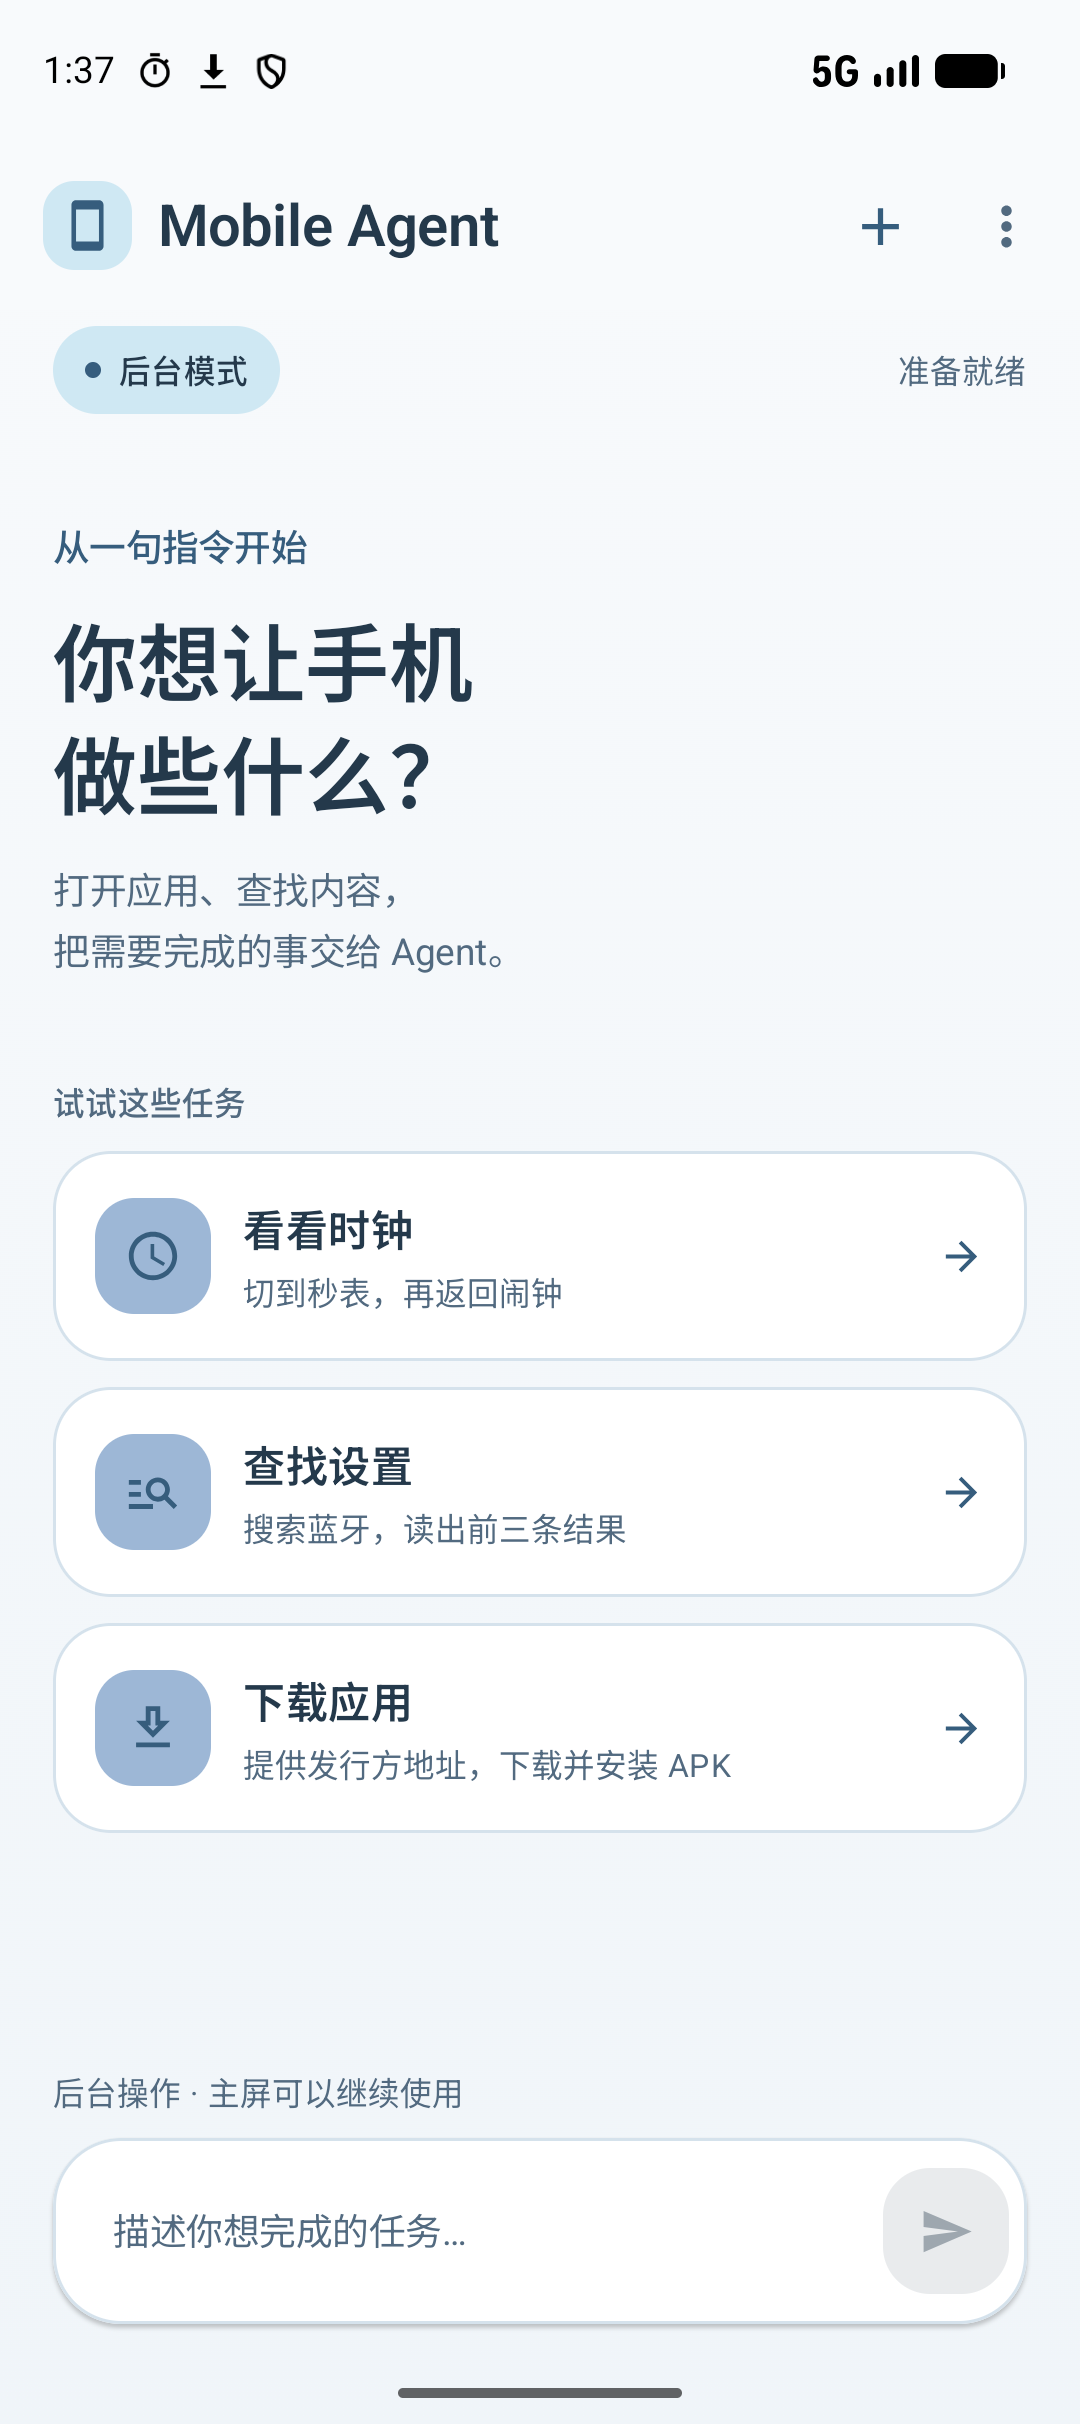
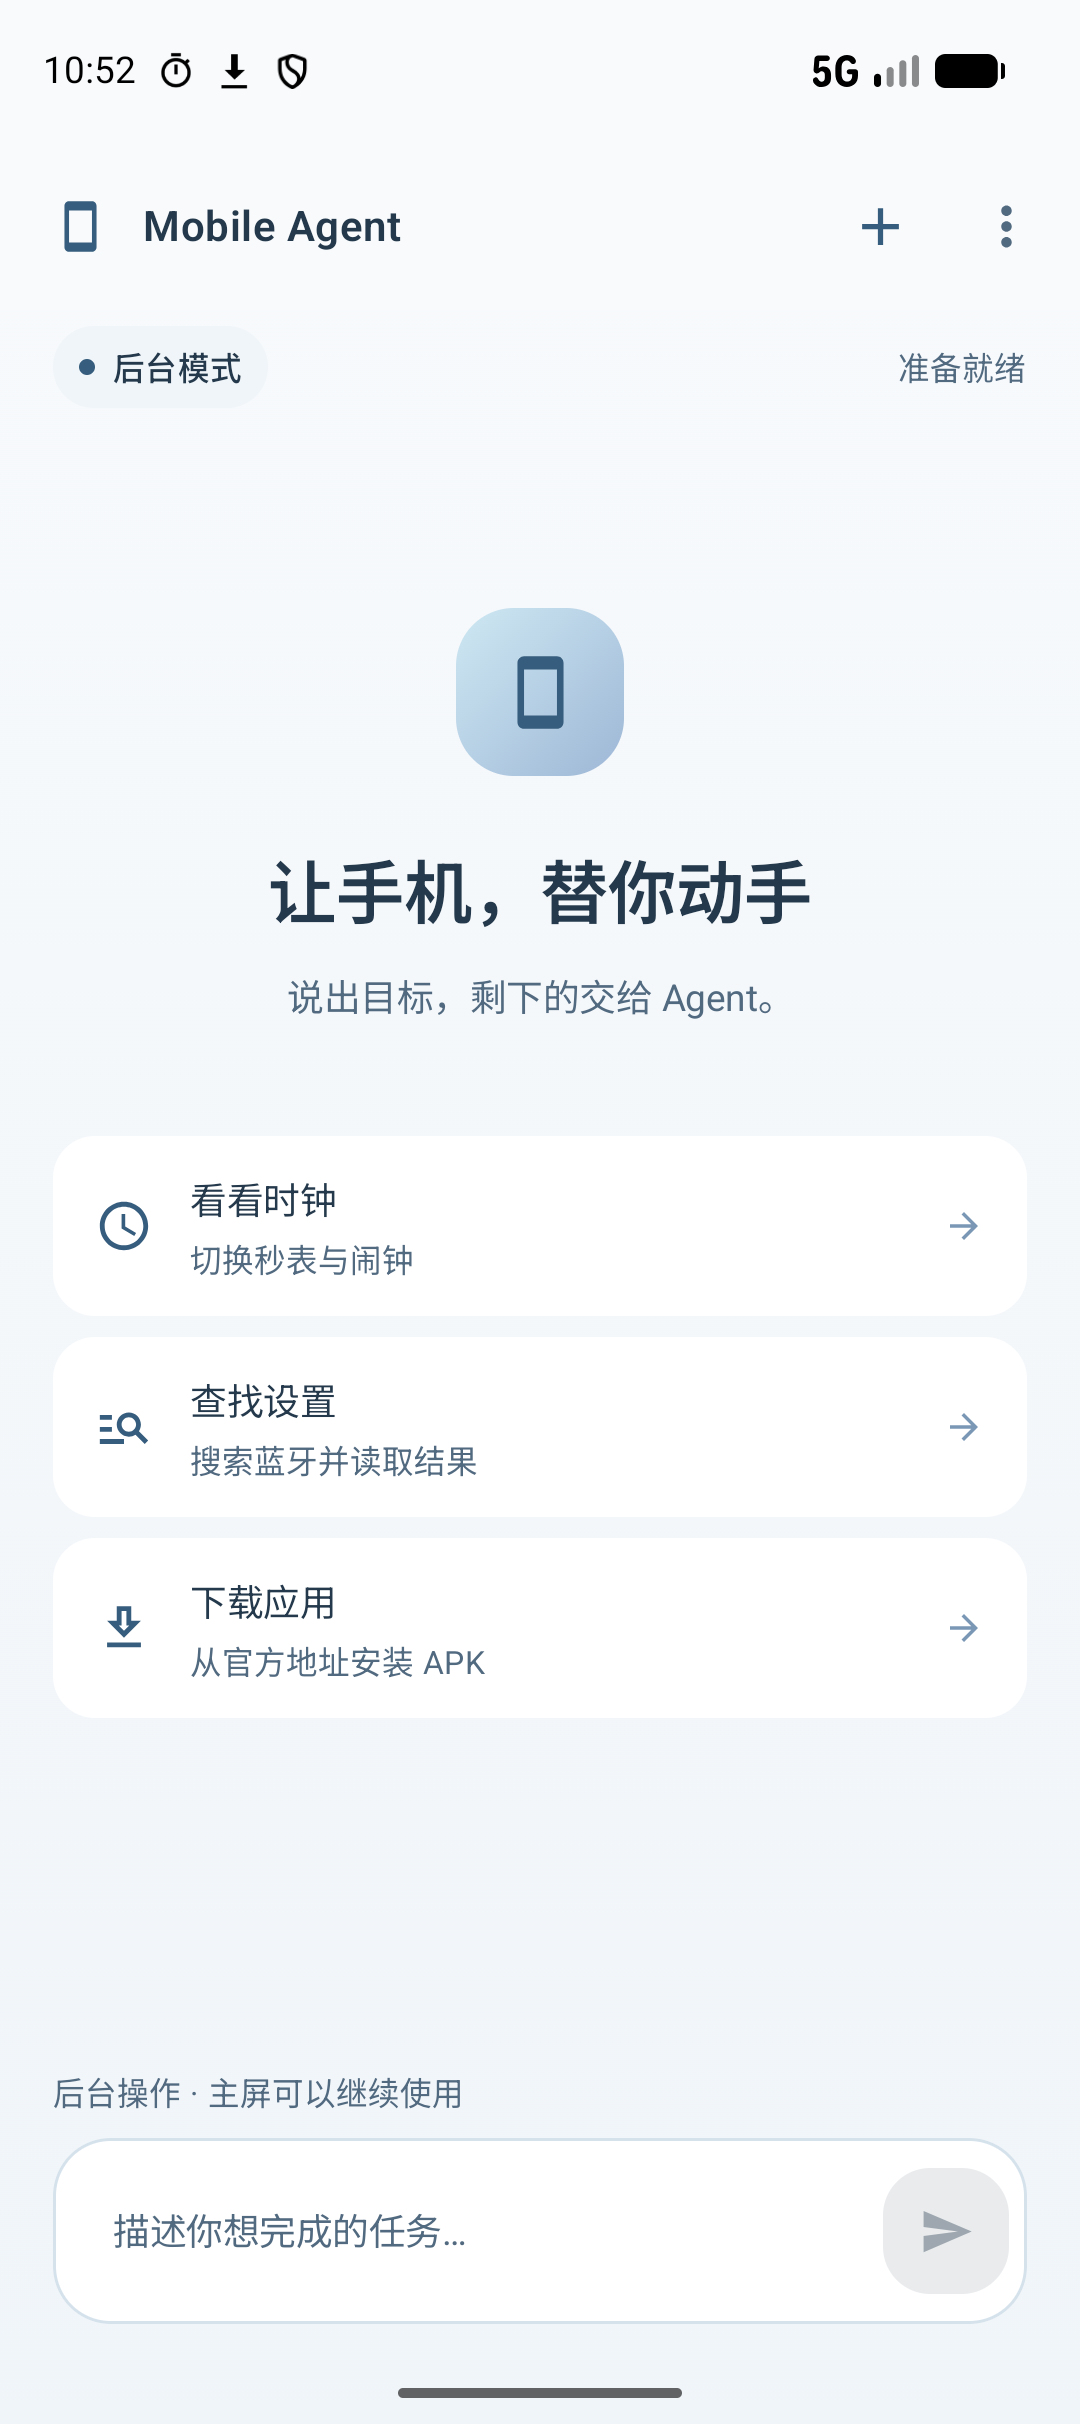
feat(android): refine home and conversation layout

diff --git a/apps/android/app/src/main/java/ai/mobileagent/MainActivity.kt b/apps/android/app/src/main/java/ai/mobileagent/MainActivity.kt
@@ -19,6 +19,8 @@ import androidx.compose.foundation.background
 import androidx.compose.foundation.BorderStroke
 import androidx.compose.foundation.clickable
 import androidx.compose.foundation.layout.size
+import androidx.compose.ui.text.style.TextAlign
+import androidx.compose.ui.unit.sp
 import androidx.compose.foundation.layout.heightIn
 import androidx.compose.material.icons.outlined.Smartphone
 import androidx.compose.material.icons.outlined.AccessTime
@@ -227,10 +229,10 @@ private fun MobileAgentScreen(
     Scaffold(topBar = { TopAppBar(
         title = {
             Row(verticalAlignment = Alignment.CenterVertically, horizontalArrangement = Arrangement.spacedBy(10.dp)) {
-                Box(Modifier.size(34.dp).background(MaterialTheme.colorScheme.primaryContainer, RoundedCornerShape(12.dp)), contentAlignment = Alignment.Center) {
+                Box(Modifier.size(28.dp), contentAlignment = Alignment.Center) {
                     Icon(Icons.Outlined.Smartphone, contentDescription = null, modifier = Modifier.size(21.dp), tint = MaterialTheme.colorScheme.primary)
                 }
-                Text("Mobile Agent", style = MaterialTheme.typography.titleLarge)
+                Text("Mobile Agent", style = MaterialTheme.typography.titleMedium)
             }
         },
         colors = TopAppBarDefaults.topAppBarColors(containerColor = MaterialTheme.colorScheme.background),
@@ -258,9 +260,9 @@ private fun MobileAgentScreen(
     ) }) { padding ->
         Column(Modifier.fillMaxSize().background(Brush.verticalGradient(listOf(MaterialTheme.colorScheme.background, MaterialTheme.colorScheme.surfaceContainerLow))).padding(padding).padding(horizontal = 20.dp).imePadding()) {
             Row(Modifier.fillMaxWidth().padding(top = 6.dp, bottom = 14.dp), verticalAlignment = Alignment.CenterVertically, horizontalArrangement = Arrangement.SpaceBetween) {
-                Surface(shape = RoundedCornerShape(50), color = MaterialTheme.colorScheme.primaryContainer,
+                Surface(shape = RoundedCornerShape(50), color = MaterialTheme.colorScheme.surfaceContainerLow,
                     modifier = Modifier.clickable(enabled = !state.running && !editingConfiguration, onClick = onToggleHidden)) {
-                    Row(Modifier.padding(horizontal = 12.dp, vertical = 8.dp), verticalAlignment = Alignment.CenterVertically, horizontalArrangement = Arrangement.spacedBy(7.dp)) {
+                    Row(Modifier.padding(horizontal = 10.dp, vertical = 7.dp), verticalAlignment = Alignment.CenterVertically, horizontalArrangement = Arrangement.spacedBy(7.dp)) {
                         Box(Modifier.size(6.dp).background(MaterialTheme.colorScheme.primary, RoundedCornerShape(50)))
                         Text(if (hiddenEnabled) "后台模式" else "前台模式", style = MaterialTheme.typography.labelMedium, color = MaterialTheme.colorScheme.onPrimaryContainer)
                     }
@@ -374,8 +376,8 @@ private fun MobileAgentScreen(
                     val value = prompt.trim()
                     if (value.isNotEmpty() && canRun && onRun(value)) prompt = ""
                 }
-                Surface(Modifier.fillMaxWidth().padding(bottom = 14.dp), shape = RoundedCornerShape(26.dp),
-                    color = MaterialTheme.colorScheme.surfaceContainerLowest, border = BorderStroke(1.dp, MaterialTheme.colorScheme.outlineVariant), shadowElevation = 1.dp) {
+                Surface(Modifier.fillMaxWidth().padding(bottom = 14.dp), shape = RoundedCornerShape(22.dp),
+                    color = MaterialTheme.colorScheme.surfaceContainerLowest, border = BorderStroke(1.dp, MaterialTheme.colorScheme.outlineVariant), shadowElevation = 0.dp) {
                     Row(Modifier.padding(7.dp), verticalAlignment = Alignment.CenterVertically) {
                         TextField(prompt, { prompt = it }, Modifier.weight(1f),
                             placeholder = { Text("描述你想完成的任务…", style = MaterialTheme.typography.bodyMedium) },
@@ -410,12 +412,12 @@ private fun Chat(state: AgentState, modifier: Modifier = Modifier) {
                 val user = message.role == MessageRole.USER
                 Row(Modifier.fillMaxWidth(), horizontalArrangement = if (user) Arrangement.End else Arrangement.Start) {
                     Surface(Modifier.fillMaxWidth(if (user) .86f else .97f),
-                        shape = if (user) RoundedCornerShape(22.dp, 22.dp, 6.dp, 22.dp) else RoundedCornerShape(6.dp, 22.dp, 22.dp, 22.dp),
+                        shape = if (user) RoundedCornerShape(22.dp, 22.dp, 6.dp, 22.dp) else RoundedCornerShape(16.dp),
                         color = when (message.role) {
                             MessageRole.USER -> MaterialTheme.colorScheme.primaryContainer
                             MessageRole.ERROR -> MaterialTheme.colorScheme.errorContainer
                             else -> MaterialTheme.colorScheme.surfaceContainerLowest
-                        }, border = if (user) null else BorderStroke(1.dp, MaterialTheme.colorScheme.outlineVariant)) {
+                        }, border = null) {
                         Column(Modifier.padding(16.dp), verticalArrangement = Arrangement.spacedBy(6.dp)) {
                             if (!user) Text(if (message.role == MessageRole.ERROR) "需要处理" else "Mobile Agent", style = MaterialTheme.typography.labelSmall, color = MaterialTheme.colorScheme.onSurfaceVariant)
                             Text(message.text, style = MaterialTheme.typography.bodyLarge,
@@ -439,32 +441,34 @@ private fun ApprovalRow(label: String, value: String) {
 
 @Composable
 private fun EmptyTask(modifier: Modifier, onExample: (String) -> Unit) {
-    Column(modifier.fillMaxWidth().verticalScroll(rememberScrollState()).padding(top = 26.dp), verticalArrangement = Arrangement.spacedBy(10.dp)) {
-        Text("从一句指令开始", style = MaterialTheme.typography.labelLarge, color = MaterialTheme.colorScheme.primary)
-        Text("你想让手机\n做些什么？", style = MaterialTheme.typography.headlineLarge)
-        Text("打开应用、查找内容，\n把需要完成的事交给 Agent。", style = MaterialTheme.typography.bodyMedium, color = MaterialTheme.colorScheme.onSurfaceVariant)
-        Spacer(Modifier.height(18.dp))
-        Text("试试这些任务", style = MaterialTheme.typography.labelMedium, color = MaterialTheme.colorScheme.onSurfaceVariant)
-        TaskExample(Icons.Outlined.AccessTime, "看看时钟", "切到秒表，再返回闹钟", onClick = { onExample("打开时钟，进入秒表页，再返回闹钟页。") })
-        TaskExample(Icons.AutoMirrored.Outlined.ManageSearch, "查找设置", "搜索蓝牙，读出前三条结果", onClick = { onExample("打开系统设置，搜索 bluetooth，读取前三条可见结果，再返回设置首页。") })
-        TaskExample(Icons.Outlined.Download, "下载应用", "提供发行方地址，下载并安装 APK", onClick = { onExample("请帮我下载并安装应用。先向我确认发行方 APK 地址和预期包名。") })
-        Spacer(Modifier.height(14.dp))
+    Column(modifier.fillMaxWidth().verticalScroll(rememberScrollState()).padding(top = 62.dp), horizontalAlignment = Alignment.CenterHorizontally) {
+        Box(Modifier.size(64.dp).background(Brush.linearGradient(listOf(MaterialTheme.colorScheme.primaryContainer, MaterialTheme.colorScheme.secondaryContainer)), RoundedCornerShape(22.dp)), contentAlignment = Alignment.Center) {
+            Icon(Icons.Outlined.Smartphone, contentDescription = null, modifier = Modifier.size(30.dp), tint = MaterialTheme.colorScheme.primary)
+        }
+        Spacer(Modifier.height(24.dp))
+        Text("让手机，替你动手", style = MaterialTheme.typography.headlineLarge.copy(fontSize = 26.sp, lineHeight = 35.sp), textAlign = TextAlign.Center)
+        Spacer(Modifier.height(10.dp))
+        Text("说出目标，剩下的交给 Agent。", style = MaterialTheme.typography.bodyMedium, color = MaterialTheme.colorScheme.onSurfaceVariant, textAlign = TextAlign.Center)
+        Spacer(Modifier.height(42.dp))
+        Column(Modifier.fillMaxWidth(), verticalArrangement = Arrangement.spacedBy(8.dp)) {
+            TaskExample(Icons.Outlined.AccessTime, "看看时钟", "切换秒表与闹钟", onClick = { onExample("打开时钟，进入秒表页，再返回闹钟页。") })
+            TaskExample(Icons.AutoMirrored.Outlined.ManageSearch, "查找设置", "搜索蓝牙并读取结果", onClick = { onExample("打开系统设置，搜索 bluetooth，读取前三条可见结果，再返回设置首页。") })
+            TaskExample(Icons.Outlined.Download, "下载应用", "从官方地址安装 APK", onClick = { onExample("请帮我下载并安装应用。先向我确认发行方 APK 地址和预期包名。") })
+        }
+        Spacer(Modifier.height(20.dp))
     }
 }
 
 @Composable
 private fun TaskExample(icon: ImageVector, title: String, description: String, onClick: () -> Unit) {
-    Surface(onClick = onClick, modifier = Modifier.fillMaxWidth(), shape = RoundedCornerShape(22.dp),
-        color = MaterialTheme.colorScheme.surfaceContainerLowest, border = BorderStroke(1.dp, MaterialTheme.colorScheme.outlineVariant)) {
-        Row(Modifier.padding(16.dp).heightIn(min = 48.dp), verticalAlignment = Alignment.CenterVertically, horizontalArrangement = Arrangement.spacedBy(12.dp)) {
-            Box(Modifier.size(44.dp).background(MaterialTheme.colorScheme.secondaryContainer, RoundedCornerShape(15.dp)), contentAlignment = Alignment.Center) {
-                Icon(icon, contentDescription = null, tint = MaterialTheme.colorScheme.primary, modifier = Modifier.size(22.dp))
-            }
-            Column(Modifier.weight(1f), verticalArrangement = Arrangement.spacedBy(3.dp)) {
-                Text(title, style = MaterialTheme.typography.titleMedium)
+    Surface(onClick = onClick, modifier = Modifier.fillMaxWidth(), shape = RoundedCornerShape(16.dp), color = MaterialTheme.colorScheme.surfaceContainerLowest) {
+        Row(Modifier.padding(horizontal = 16.dp, vertical = 12.dp).heightIn(min = 40.dp), verticalAlignment = Alignment.CenterVertically, horizontalArrangement = Arrangement.spacedBy(14.dp)) {
+            Icon(icon, contentDescription = null, tint = MaterialTheme.colorScheme.primary, modifier = Modifier.size(22.dp))
+            Column(Modifier.weight(1f), verticalArrangement = Arrangement.spacedBy(2.dp)) {
+                Text(title, style = MaterialTheme.typography.bodyMedium)
                 Text(description, style = MaterialTheme.typography.bodySmall, color = MaterialTheme.colorScheme.onSurfaceVariant)
             }
-            Icon(Icons.AutoMirrored.Filled.ArrowForward, contentDescription = null, tint = MaterialTheme.colorScheme.primary, modifier = Modifier.size(18.dp))
+            Icon(Icons.AutoMirrored.Filled.ArrowForward, contentDescription = null, tint = MaterialTheme.colorScheme.outline, modifier = Modifier.size(16.dp))
         }
     }
 }
